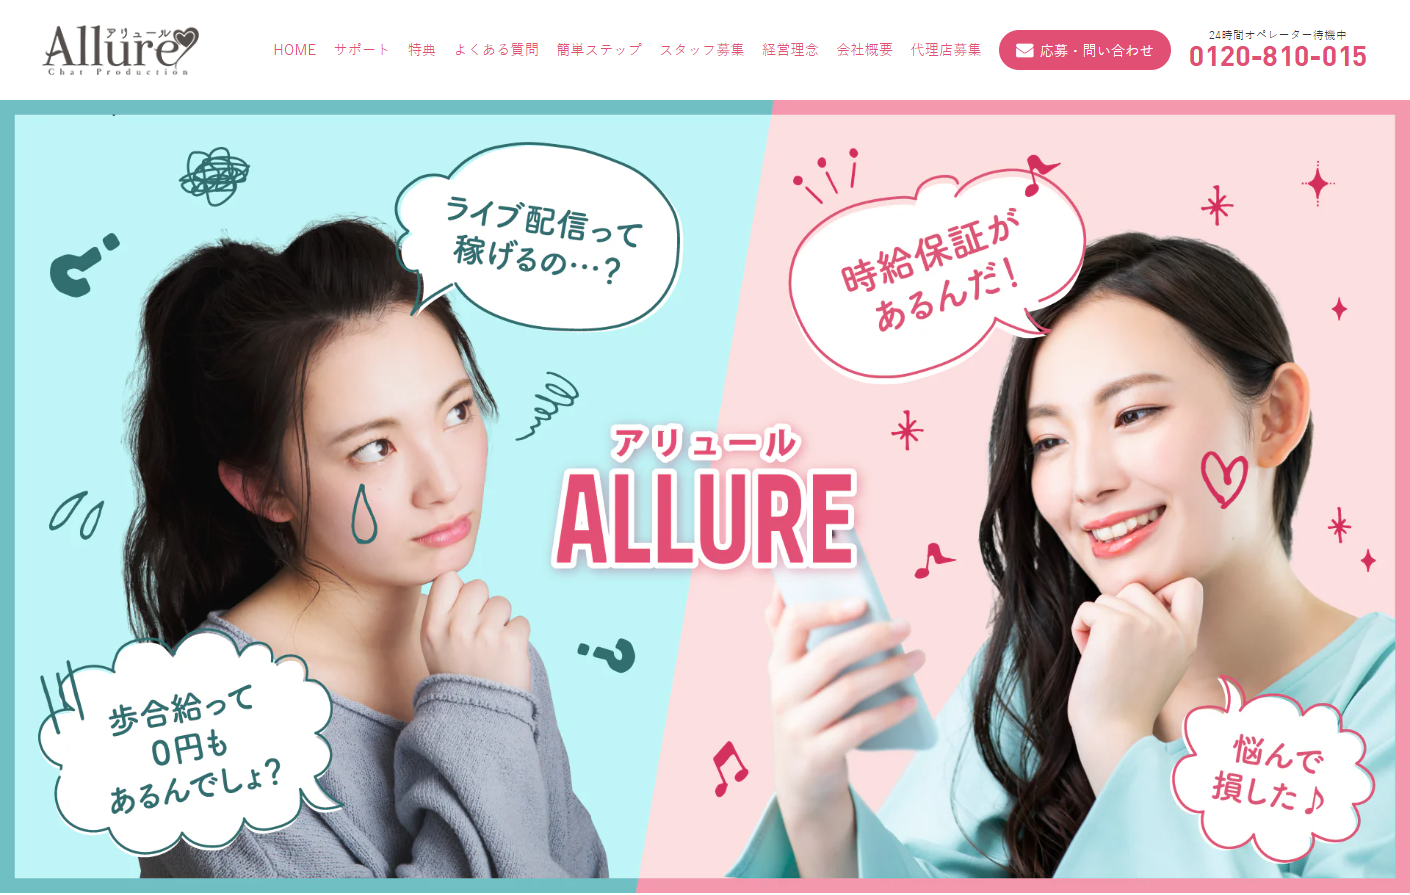
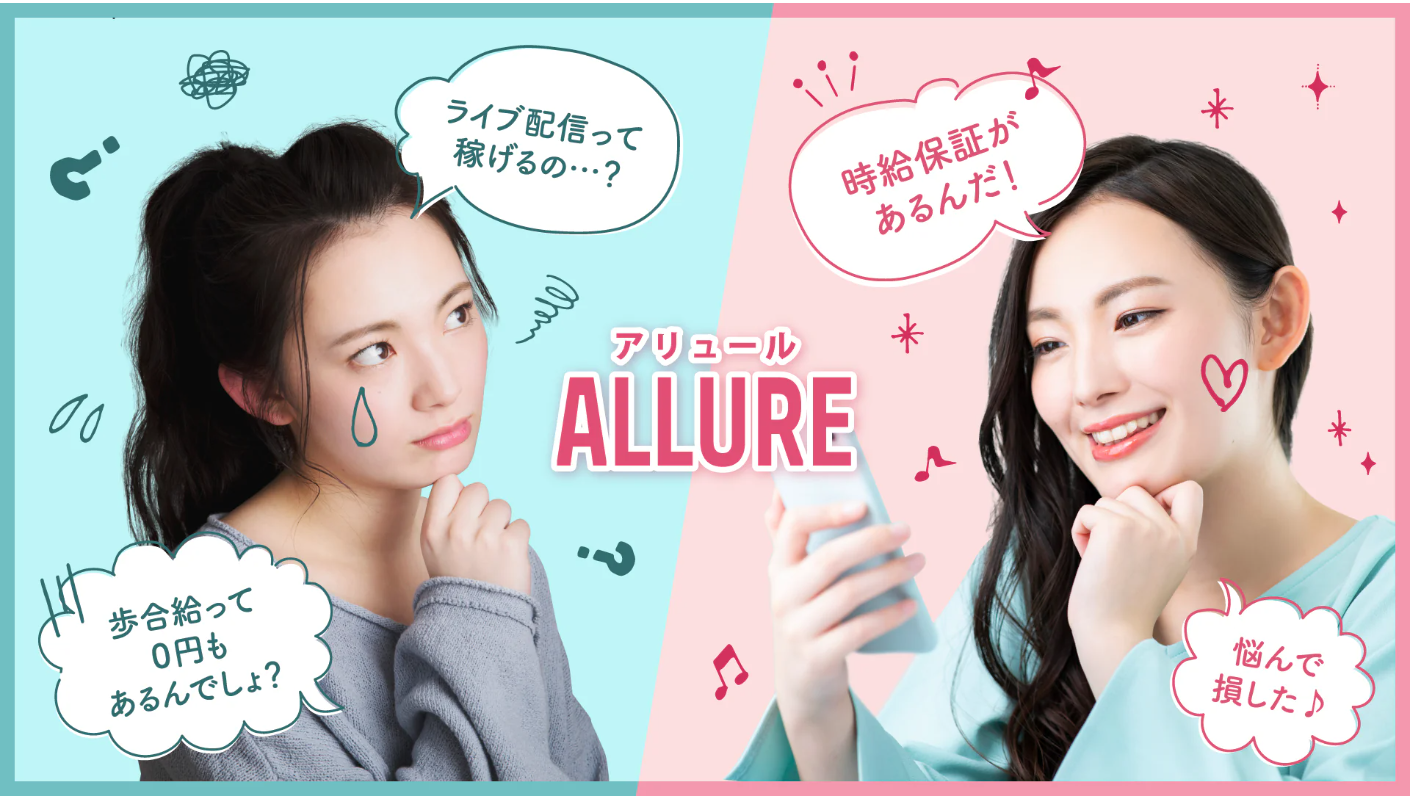
エリアカードのバナーを調整済み画像に対応（slugごとの実寸で比率保持）
- office-header 画像9社を調整版に差し替え（at-group/pocket等は横長バナー寄りに）
- AreaRankingCard に slugごとの実寸マップ(BANNER_SIZE)を追加し、next/image に正しい比率を渡す。height:auto と併用で歪みなし・レイアウトシフト最小化

diff --git a/app/area/AreaRankingCard.tsx b/app/area/AreaRankingCard.tsx
@@ -19,9 +19,25 @@ export type AreaCardData = {
   review: AreaReview; // 実投稿のgood/bad（出典metaつき）
 };
 
+// office-header-{slug}.png の実寸（比率保持用）。画像を差し替えたら、その社の寸法をここで更新する。
+const BANNER_SIZE: Record<string, [number, number]> = {
+  ft: [1901, 918],
+  "bright-group": [1410, 832],
+  chatstyle: [1893, 777],
+  "at-group": [1382, 543],
+  "flavor-group": [1142, 571],
+  "liver-support": [1518, 926],
+  "chatlady-jp": [622, 350],
+  asterisk: [1895, 1051],
+  "pocket-work": [1892, 638],
+  "nmr-group": [1701, 918],
+  allure: [1410, 798],
+};
+
 export function AreaRankingCard({ c }: { c: AreaCardData }) {
   const isTop = c.rank === 1;
   const badge = c.slug === "ft" ? "初心者に最もおすすめ" : `${c.rank}位`;
+  const [bw, bh] = BANNER_SIZE[c.slug] ?? [1600, 800];
 
   return (
     <article
@@ -58,8 +74,8 @@ export function AreaRankingCard({ c }: { c: AreaCardData }) {
         <Image
           src={`/office-header-${c.slug}.png`}
           alt={c.name}
-          width={1901}
-          height={918}
+          width={bw}
+          height={bh}
           sizes="(max-width: 768px) 100vw, 720px"
           style={{ width: "100%", height: "auto", display: "block" }}
         />
